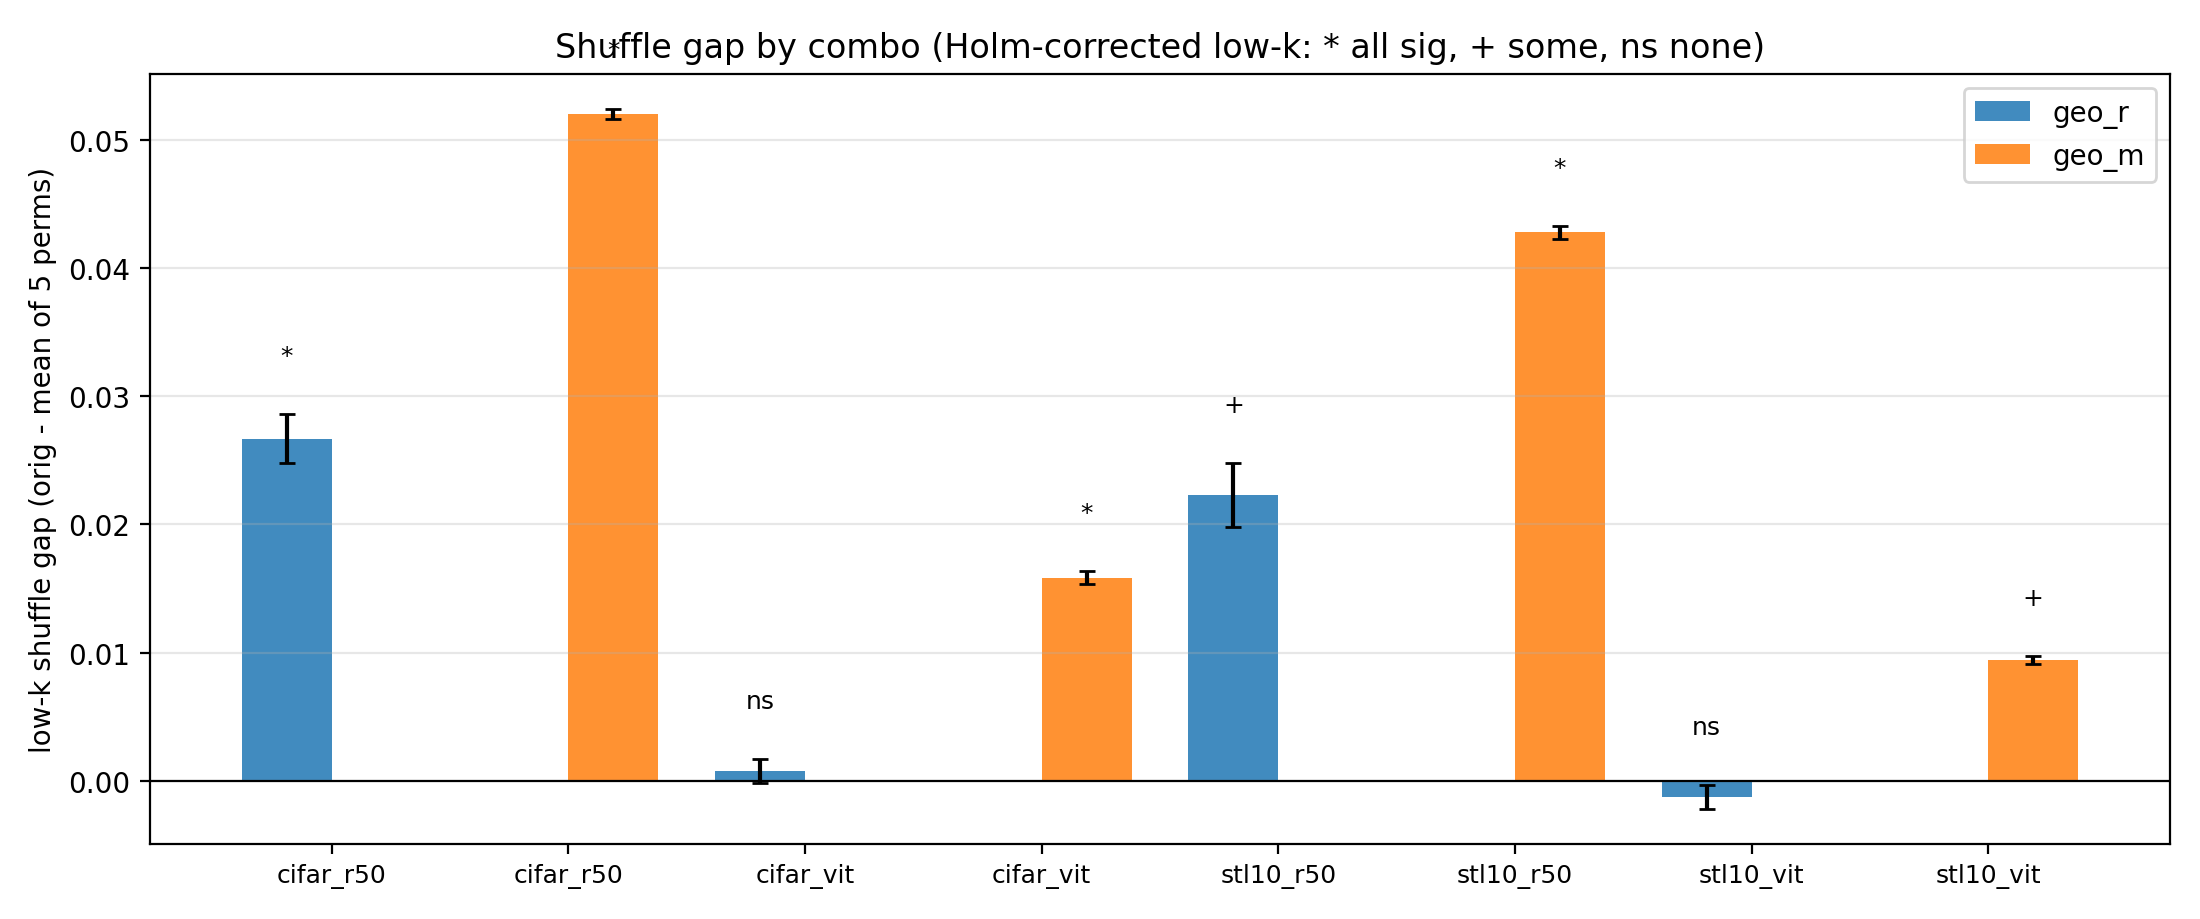
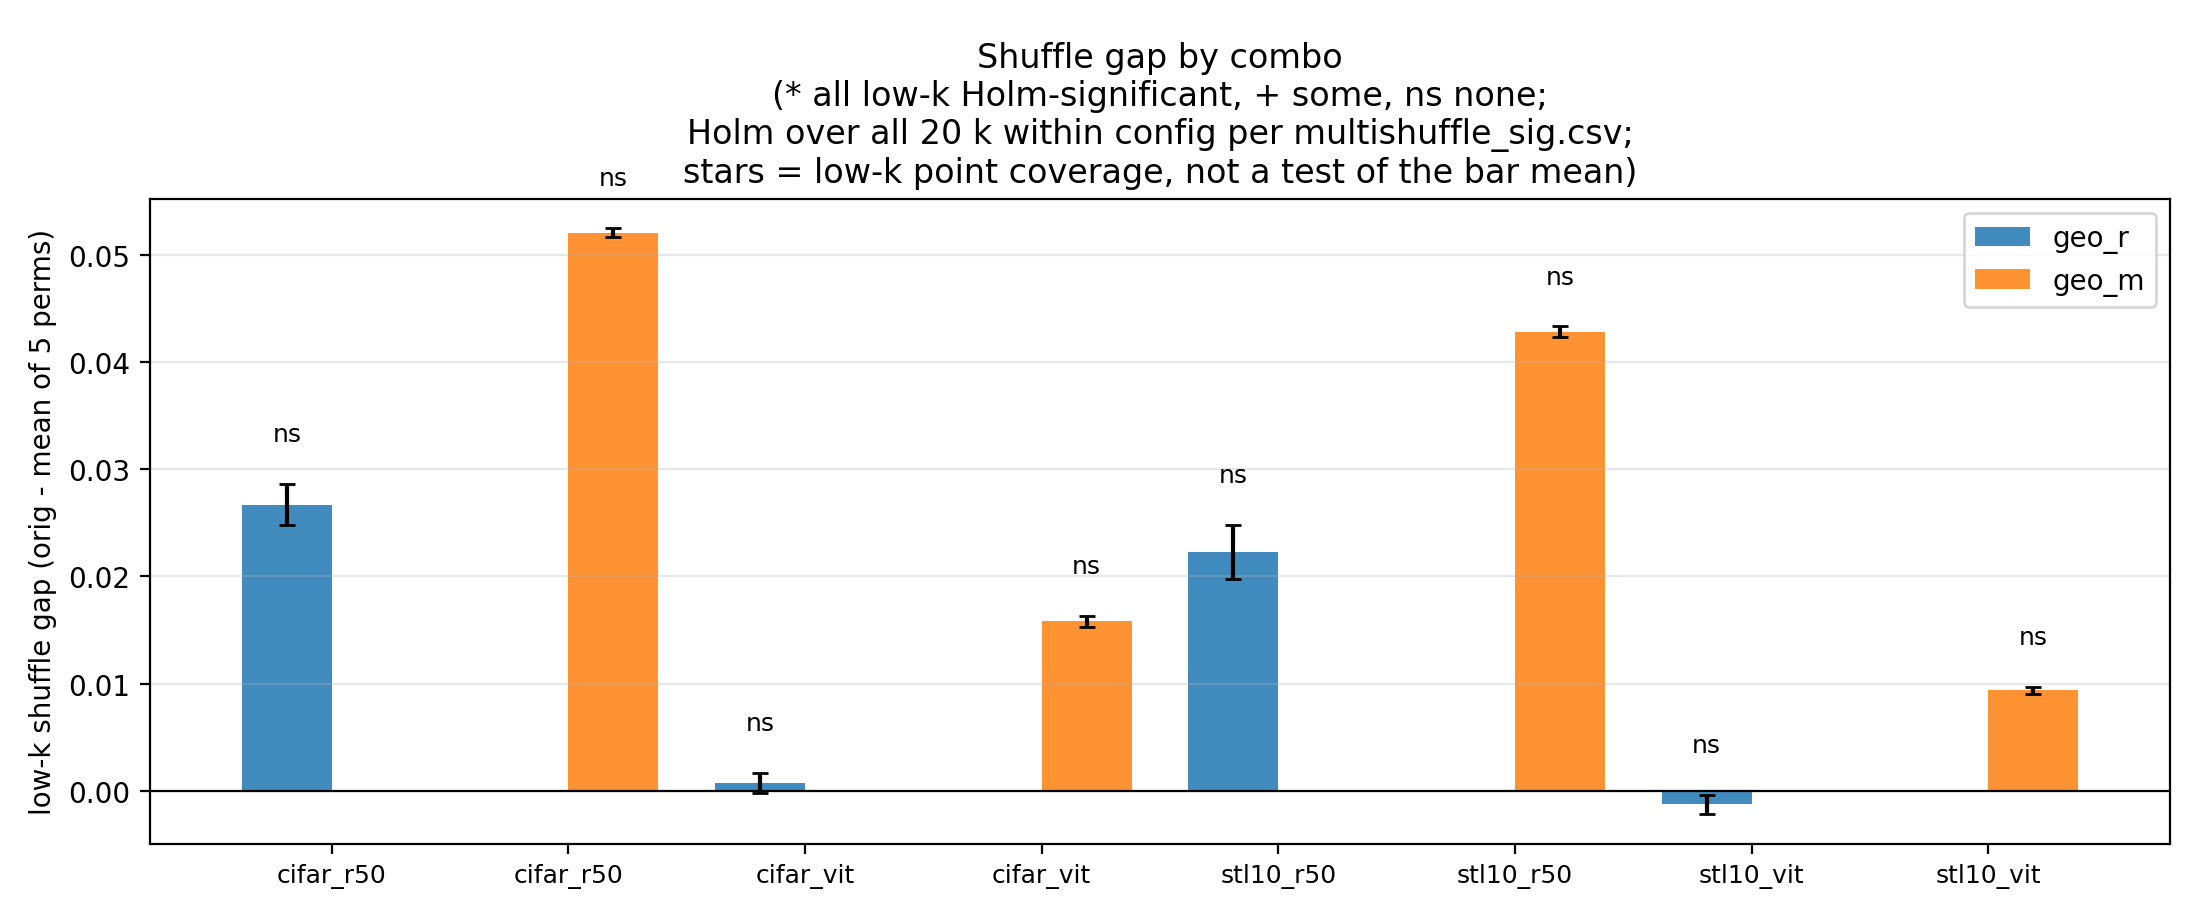
Plot fig1 stars from CSV single source of truth
- plot_summary_figures.py: significance now read from Reports/multishuffle_sig.csv
  (Holm over all 20 k within config), no in-plot re-testing (6-point Holm was a
  more liberal family and caused stl10/r50/geo_r 3-vs-4 mismatch)
- caption clarifies stars = low-k point coverage, not a test of the bar mean
- removed debug log scaffolding

diff --git a/plot_summary_figures.py b/plot_summary_figures.py
@@ -9,10 +9,9 @@ Outputs to d:\\cg-kwta\\Figures\\summary\\:
   5. cma_convergence.png         mean CMA-ES fbest trajectory, orig vs shuffled
 """
 import os
+import csv
 import glob
 import re
-import sys
-import traceback
 import yaml
 import numpy as np
 import matplotlib
@@ -20,14 +19,11 @@ matplotlib.use("Agg")
 import matplotlib.pyplot as plt
 from scipy import stats
 
-_LOG = open(r"d:\cg-kwta\_plot_log.txt", "w", encoding="utf-8")
-def log(*a):
-    _LOG.write(" ".join(str(x) for x in a) + "\n"); _LOG.flush()
-
 BASE = r"d:\my projects\PythonProject4"
 REB = os.path.join(BASE, "rebuttal")
 REBDIM = os.path.join(BASE, "rebuttal_dim")
 GMORIG = os.path.join(BASE, "rebuttal_geo_m_orig")
+REPORTS = r"d:\cg-kwta\Reports"
 OUT = r"d:\cg-kwta\Figures\summary"
 os.makedirs(OUT, exist_ok=True)
 
@@ -99,41 +95,47 @@ def per_seed_lowk_gap(orig, null, hi=0.30):
     return np.array(gaps)
 
 
-def holm(pv):
-    n = len(pv); order = np.argsort(pv); adj = np.ones(n)
-    for rank, i in enumerate(order):
-        adj[i] = min(1.0, pv[i] * (n - rank))
-    for i in range(1, n):
-        a, b = order[i-1], order[i]
-        if adj[b] < adj[a]:
-            adj[b] = adj[a]
-    return adj
+def load_csv_sig():
+    """Single source of truth for significance.
+
+    Reads Reports/multishuffle_sig.csv (produced by make_rebuttal_report.py).
+    Holm there is applied over ALL 20 k_fracs within a configuration; we then
+    count how many low-k (<=0.30) points remain significant. The plot script
+    must NOT re-run tests/corrections (a 6-point correction would be a
+    different, more liberal family).
+    Returns {(dataset, model, coord_mode): (sig_lowk, n_lowk)}.
+    """
+    counts = {}
+    with open(os.path.join(REPORTS, "multishuffle_sig.csv"), encoding="utf-8") as f:
+        for r in csv.DictReader(f):
+            if r.get("null_kind") != "multi_perm":
+                continue
+            try:
+                k = float(r["k_frac"])
+            except ValueError:
+                continue
+            if k > 0.30:
+                continue
+            key = (r["dataset"], r["model"], r["coord_mode"])
+            sig, n = counts.get(key, (0, 0))
+            counts[key] = (sig + (r["sig_holm"] == "True"), n + 1)
+    return counts
 
 
 # ---------------- 1. shuffle gap by combo ----------------
+CSV_SIG = load_csv_sig()
 combos = []
-log("== section 1: shuffle_gap_by_combo ==")
 for ds in DATASETS:
     for m in MODELS:
         for gm in ["geo_r", "geo_m"]:
             orig = get_orig(ds, m, gm)
             null = load_null(os.path.join(REB, f"{ds}_{m}_{gm}"))
             gaps = per_seed_lowk_gap(orig, null)
-            # Holm significance across k_fracs
-            seeds = sorted(set(orig) & set(null))
-            ks = sorted({k for sd in seeds for k in orig[sd] if k in null[sd] and k <= 0.30})
-            pv = []
-            for k in ks:
-                d = np.array([orig[sd][k] - null[sd][k] for sd in seeds if k in orig[sd] and k in null[sd]])
-                if len(d) >= 2:
-                    # two-sided Wilcoxon primary analysis (no one-sided halving)
-                    p2 = stats.wilcoxon(d).pvalue if len(d) >= 10 else stats.ttest_1samp(d, 0.0).pvalue
-                    pv.append(p2 if np.isfinite(p2) else 1.0)
-            sig = int((holm(np.array(pv)) < 0.05).sum()) if pv else 0
+            sig, n_lowk = CSV_SIG.get((ds, m, gm), (0, 6))
             combos.append({"ds": ds, "m": m, "gm": gm, "gaps": gaps,
                            "mean": gaps.mean() if len(gaps) else 0.0,
                            "sem": gaps.std(ddof=1) / np.sqrt(len(gaps)) if len(gaps) > 1 else 0.0,
-                           "sig_lowk": sig, "n_lowk": len(ks)})
+                           "sig_lowk": sig, "n_lowk": n_lowk})
 
 labels = [f"{c['ds'][:5]}_{c['m']}" for c in combos]
 xs = np.arange(len(combos))
@@ -153,7 +155,9 @@ ax.axhline(0, color="k", linewidth=0.8)
 ax.set_xticks(xs + w / 2)
 ax.set_xticklabels(labels, fontsize=9)
 ax.set_ylabel("low-k shuffle gap (orig - mean of 5 perms)")
-ax.set_title("Shuffle gap by combo (Holm-corrected low-k: * all sig, + some, ns none)")
+ax.set_title("Shuffle gap by combo\n(* all low-k Holm-significant, + some, ns none;\n"
+             "Holm over all 20 k within config per multishuffle_sig.csv;\n"
+             "stars = low-k point coverage, not a test of the bar mean)")
 ax.legend()
 ax.grid(True, alpha=0.3, axis="y")
 plt.tight_layout()
@@ -266,7 +270,6 @@ p4 = os.path.join(OUT, "geo_vs_baselines.png")
 plt.savefig(p4, dpi=200); plt.close(); print("saved:", p4)
 
 # ---------------- 5. CMA-ES convergence (full dim_sweep, per condition panels) ----------------
-log("== section 5: cma_convergence ==")
 GM_COL = {"geo_r": C_GEOR, "geo_pca": "#2ca02c"}
 fig, axes = plt.subplots(1, 2, figsize=(12, 4.8), sharey=True)
 improvement_stats = {}   # (gm, cond) -> (mean, median, n)
